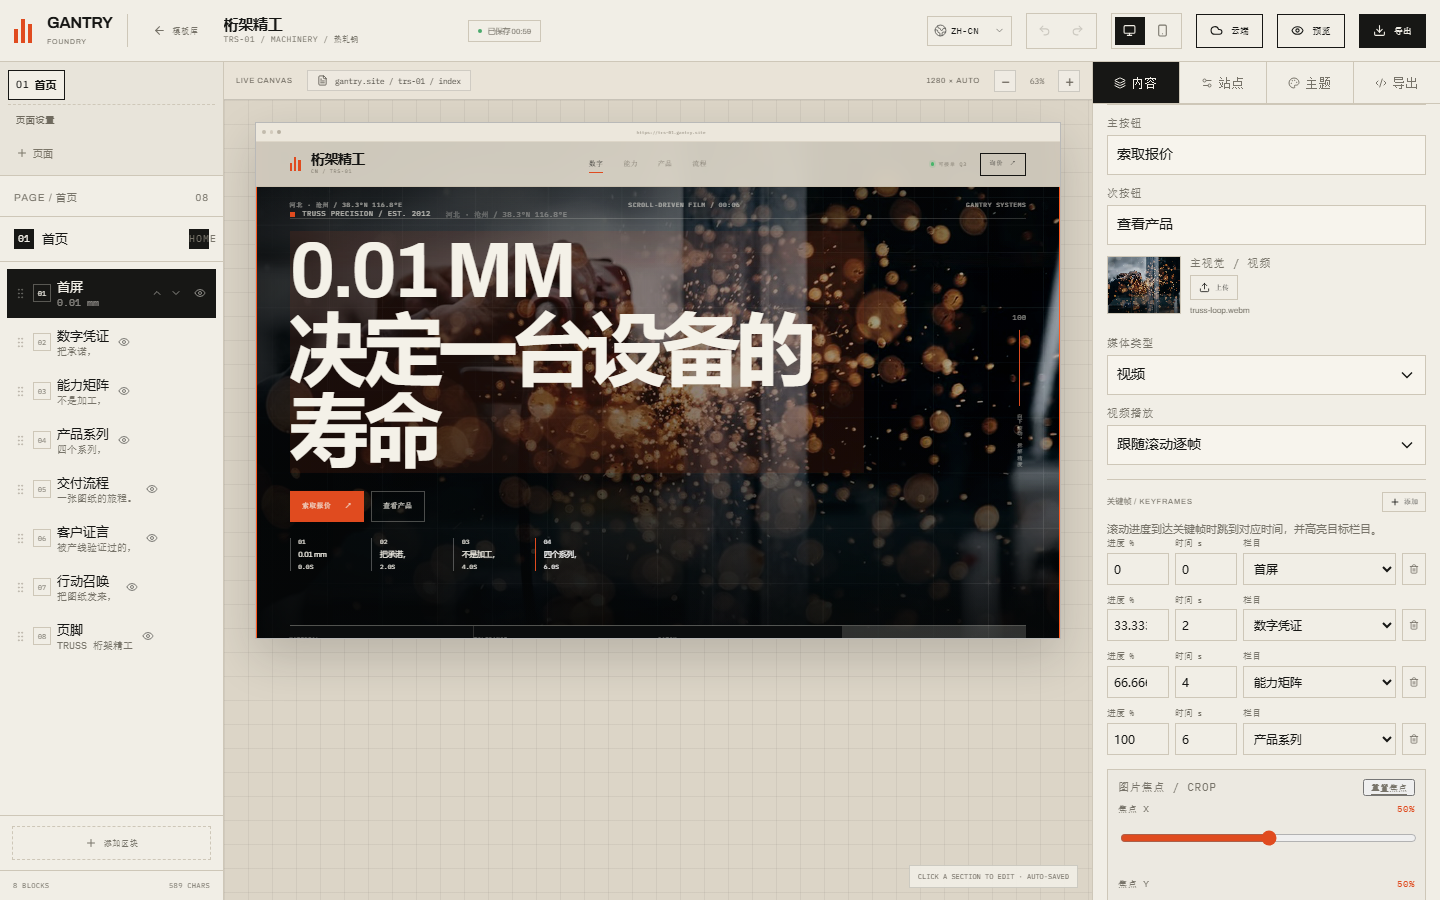
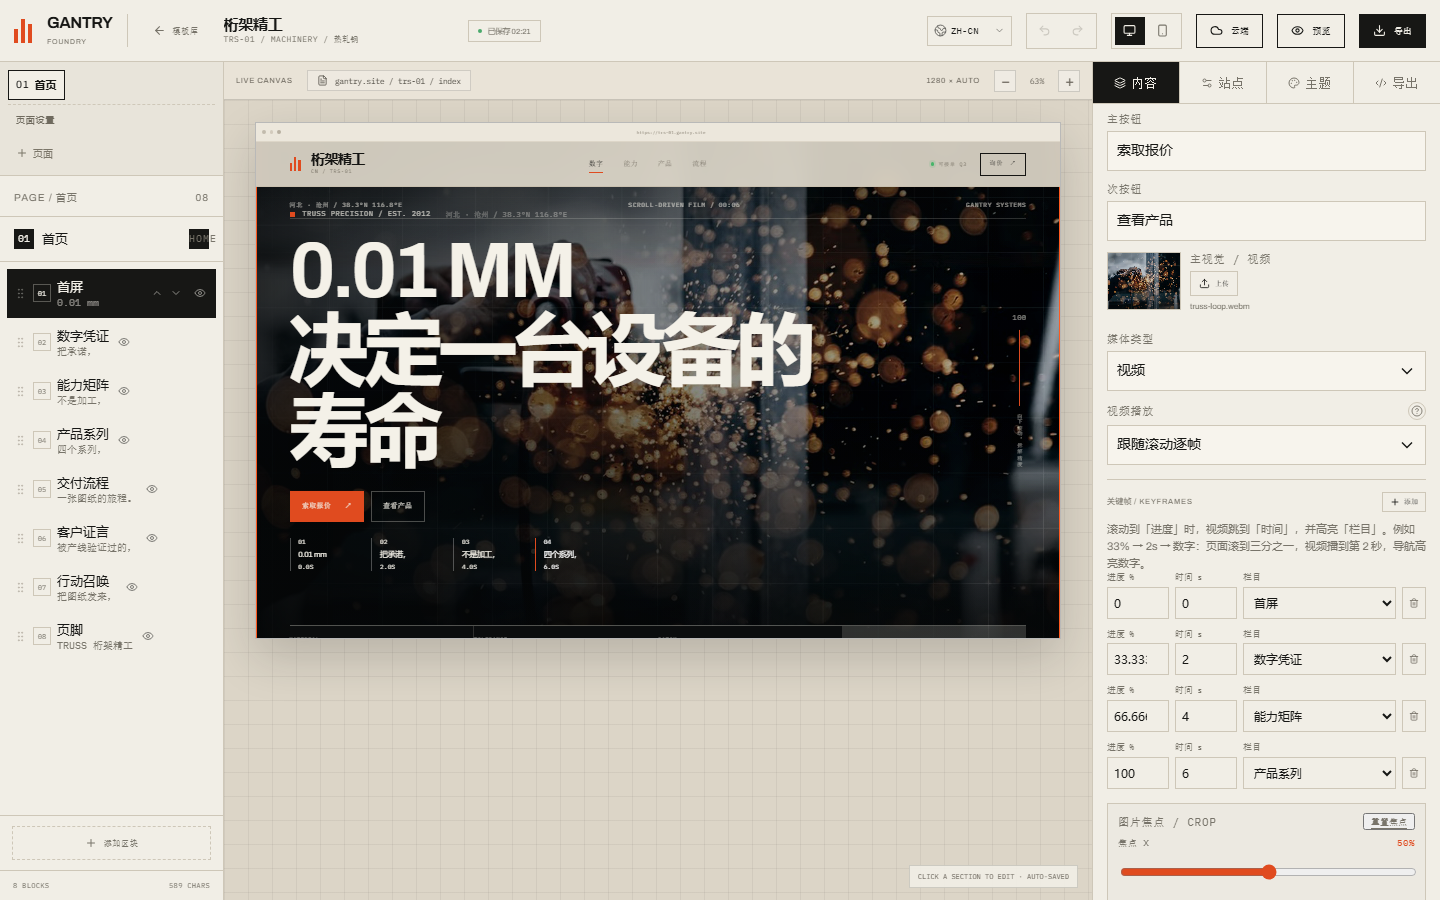
fix(编辑器): 修复长提示遮挡、首屏边距与滚动联动
字段提示改为挂载到 body 的固定浮层，按视口宽度夹取，避免被画布或检查器裁切。视频贯穿场景的首屏恢复 section gutter，标题不再贴左边缘。画布滚动时按 data-slot-id 计算当前区块，左侧区块列表同步选中，但不反向触发滚动。补充 3 条 E2E：编辑中撤销、滚动联动、提示浮层边界与首屏左边距。验证：tsc、146 单测、25 E2E、lint、build 通过。

Changed region(s): [[0.75, 0.56, 1.0, 0.9956], [0.75, 0.1244, 0.875, 0.4667], [0.9688, 0.4356, 1.0, 0.4667]]

diff --git a/frontend/e2e/site.spec.ts b/frontend/e2e/site.spec.ts
@@ -337,6 +337,33 @@ test.describe('builder', () => {
       .toBeGreaterThan(offset - 80);
   });
 
+  test('syncs the left rail when the canvas scrolls', async ({ page }) => {
+    await page.goto('/');
+    await openTemplate(page);
+
+    const scroller = page.locator('.device-screen .site-scroll');
+    const offset = await scroller.evaluate((node) => {
+      const target = node.querySelector('[data-slot-id="products"]');
+      return target instanceof HTMLElement ? target.offsetTop : 0;
+    });
+    await scroller.evaluate((node, top) => node.scrollTo({ top }), offset + 24);
+
+    await expect(page.locator('.rail-section').nth(3)).toHaveClass(/is-selected/);
+  });
+
+  test('shows field explanations in a viewport-safe tooltip', async ({ page }) => {
+    await page.goto('/');
+    await openTemplate(page);
+
+    await page.locator('.inspector .field-help').first().hover();
+    const tooltip = page.locator('.field-tooltip');
+    await expect(tooltip).toBeVisible();
+    const box = await tooltip.boundingBox();
+    expect(box).not.toBeNull();
+    expect(box!.x).toBeGreaterThanOrEqual(0);
+    expect(box!.x + box!.width).toBeLessThanOrEqual(1440);
+  });
+
   test('scrolls the canvas from a top navigation link', async ({ page }) => {
     await page.goto('/');
     await openTemplate(page);
@@ -352,8 +379,21 @@ test.describe('builder', () => {
     );
   });
 
-  test('keeps one film behind hero, numbers, capability and products', async ({ page }) => {
+  test('keeps the video-story hero copy inside the section gutter', async ({ page }) => {
     await page.goto('/');
+    await openTemplate(page, '铸造之夜');
+
+    const frame = page.locator('.device-screen').first();
+    const copy = page.locator('.device-screen .hero--story .hero-title');
+    await expect(copy).toBeVisible();
+    const frameBox = await frame.boundingBox();
+    const copyBox = await copy.boundingBox();
+    expect(frameBox).not.toBeNull();
+    expect(copyBox).not.toBeNull();
+    expect(copyBox!.x - frameBox!.x).toBeGreaterThan(18);
+  });
+
+  test('keeps one film behind hero, numbers, capability and products', async ({ page }) => {    await page.goto('/');
     await openTemplate(page, '铸造之夜');
 
     await expect(page.locator('.device-screen .video-scene')).toBeVisible();

diff --git a/frontend/src/components/ui/HelpTip.tsx b/frontend/src/components/ui/HelpTip.tsx
@@ -1,0 +1,59 @@
+import { useId, useRef, useState } from 'react';
+import { createPortal } from 'react-dom';
+import { CircleHelp } from 'lucide-react';
+
+type Position = { top: number; left: number; above: boolean };
+
+export function HelpTip({ text }: { text: string }) {
+  const anchor = useRef<HTMLSpanElement>(null);
+  const tooltipId = useId();
+  const [position, setPosition] = useState<Position | null>(null);
+
+  const show = () => {
+    const node = anchor.current;
+    if (!node) return;
+    const rect = node.getBoundingClientRect();
+    const width = Math.min(300, window.innerWidth - 32);
+    const left = Math.min(
+      Math.max(16, rect.left + rect.width / 2 - width / 2),
+      window.innerWidth - width - 16,
+    );
+    const above = rect.top > 170;
+    setPosition({
+      top: above ? rect.top - 8 : rect.bottom + 8,
+      left,
+      above,
+    });
+  };
+
+  return (
+    <>
+      <span
+        ref={anchor}
+        className="field-help"
+        tabIndex={0}
+        role="note"
+        aria-label={text}
+        aria-describedby={tooltipId}
+        onMouseEnter={show}
+        onMouseLeave={() => setPosition(null)}
+        onFocus={show}
+        onBlur={() => setPosition(null)}
+      >
+        <CircleHelp size={12} strokeWidth={1.8} aria-hidden="true" />
+      </span>
+      {position &&
+        createPortal(
+          <span
+            id={tooltipId}
+            role="tooltip"
+            className={`field-tooltip${position.above ? ' is-above' : ''}`}
+            style={{ top: position.top, left: position.left }}
+          >
+            {text}
+          </span>,
+          document.body,
+        )}
+    </>
+  );
+}

diff --git a/frontend/src/components/builder/Builder.tsx b/frontend/src/components/builder/Builder.tsx
@@ -281,6 +281,40 @@ function Canvas() {
     });
   }, [scrollRequest]);
 
+  useEffect(() => {
+    const scroller = document.querySelector<HTMLElement>(
+      '.device-screen .site-scroll',
+    );
+    if (!scroller) return;
+    let frame = 0;
+    const sync = () => {
+      frame = 0;
+      const slots = Array.from(
+        scroller.querySelectorAll<HTMLElement>('[data-slot-id]'),
+      );
+      if (!slots.length) return;
+      const line = scroller.scrollTop + 16;
+      let current = slots[0];
+      for (const slot of slots) {
+        if (slot.offsetTop <= line) current = slot;
+      }
+      const next = current.dataset.slotId;
+      if (next && next !== useBuilderStore.getState().selectedId) {
+        selectSection(next);
+      }
+    };
+    const onScroll = () => {
+      if (frame) return;
+      frame = window.requestAnimationFrame(sync);
+    };
+    sync();
+    scroller.addEventListener('scroll', onScroll, { passive: true });
+    return () => {
+      scroller.removeEventListener('scroll', onScroll);
+      if (frame) window.cancelAnimationFrame(frame);
+    };
+  }, [doc?.id, device, selectSection]);
+
   if (!doc) return null;
 
   return (

diff --git a/frontend/src/styles/shell.css b/frontend/src/styles/shell.css
@@ -3631,13 +3631,11 @@ html[dir='rtl'] .field-select {
   outline: none;
 }
 
-.field-help::after {
-  content: attr(data-tooltip);
-  position: absolute;
-  right: 0;
-  bottom: calc(100% + 8px);
-  z-index: 80;
-  width: 236px;
+.field-tooltip {
+  position: fixed;
+  z-index: 1000;
+  width: max-content;
+  max-width: min(300px, calc(100vw - 32px));
   padding: 10px 12px;
   border: 1px solid var(--shell-ink);
   background: var(--shell-ink);
@@ -3649,21 +3647,16 @@ html[dir='rtl'] .field-select {
   letter-spacing: 0;
   text-align: left;
   white-space: normal;
-  opacity: 0;
-  transform: translateY(4px);
   pointer-events: none;
-  transition: opacity 160ms ease, transform 160ms ease;
+  box-shadow: 0 10px 30px rgba(23, 23, 21, 0.22);
+  animation: field-tooltip-in 140ms ease both;
 }
 
-.field-help:hover::after,
-.field-help:focus-visible::after {
-  opacity: 1;
-  transform: translateY(0);
+.field-tooltip.is-above {
+  transform: translateY(-100%);
 }
 
-@media (max-width: 760px) {
-  .field-help::after {
-    right: -8px;
-    width: min(220px, 70vw);
-  }
+@keyframes field-tooltip-in {
+  from { opacity: 0; }
+  to { opacity: 1; }
 }

diff --git a/frontend/src/components/builder/Inspector.tsx b/frontend/src/components/builder/Inspector.tsx
@@ -10,7 +10,6 @@ import {
   type ReactNode,
 } from 'react';
 import {
-  CircleHelp,
   Code2,
   Copy,
   Download,
@@ -27,6 +26,7 @@ import {
 import { useTranslation } from 'react-i18next';
 import { useBuilderStore } from '../../store/builder';
 import { useProjectStore } from '../../store/project';
+import { HelpTip } from '../ui/HelpTip';
 import { LOCALES } from '../../i18n/locales';
 import {
   SECTION_LABELS,
@@ -200,18 +200,7 @@ function SelectField<T extends string>({
     <label className="field">
       <span className="field-label">
         {label}
-        {hint && (
-          <span
-            className="field-help"
-            tabIndex={0}
-            role="note"
-            aria-label={hint}
-            data-tooltip={hint}
-            title={hint}
-          >
-            <CircleHelp size={12} strokeWidth={1.8} aria-hidden="true" />
-          </span>
-        )}
+        {hint && <HelpTip text={hint} />}
       </span>
       <select
         value={value}

diff --git a/frontend/src/styles/site.css b/frontend/src/styles/site.css
@@ -2890,7 +2890,7 @@
   min-height: 100cqh;
   display: flex;
   align-items: flex-end;
-  padding: calc(var(--nav-h) + 48px) 0 96px;
+  padding: calc(var(--nav-h) + 48px) var(--gutter) 96px;
 }
 .video-scene .hero--story .hero-inner { width: 100%; }
 .video-scene .hero--story .hero-copy { max-width: 820px; }

diff --git a/docs/ACCEPTANCE.md b/docs/ACCEPTANCE.md
@@ -12,7 +12,7 @@
 - 桌面/手机双视图、滚动视频、3–4 图拼贴、组件级样式、图片焦点/独立裁剪均可用。
 - 七语言 UI（zh-CN / en / ar / tr / he / fa / ur）与 RTL；生成站点可设置 locale，导出写入 lang/dir。
 - 登录、云端项目、多页编辑、PC → 手机接力、单页 HTML / 整站 ZIP 导出已打通。
-- 前端 146 个单元测试、22 条 Playwright E2E；后端 4 条 Spring Boot 集成测试；类型检查、Lint、生产构建全部通过。
+- 前端 146 个单元测试、25 条 Playwright E2E；后端 4 条 Spring Boot 集成测试；类型检查、Lint、生产构建全部通过。
 
 尚未完成：真实源码（React/Java）生成、在线支付、手机端编辑工作台。JSON 项目源文件当前是页面文档，不是生成出来的工程源码。
 
@@ -45,15 +45,15 @@ npx tsc --noEmit          # 通过
 npx vitest run            # 23 files, 146 tests passed
 npx playwright test       # 9 passed (35.6s)
 npm run lint              # 0 error, 0 warning
-npm run build             # 1663 modules
+npm run build             # 1665 modules
 ```
 
 前端构建体积：
 
 - 首屏 `index` 477.72 kB / gzip 159.41 kB
-- 按需 `Builder` 363.37 kB / gzip 106.19 kB，`Gallery` 15.67 kB / gzip 4.78 kB
+- 按需 `Builder` 364.54 kB / gzip 106.69 kB，`Gallery` 15.67 kB / gzip 4.78 kB
 - `ImageCropper` 3.27 kB / gzip 1.42 kB
-- CSS 103.03 kB / gzip 19.17 kB
+- CSS 102.95 kB / gzip 19.16 kB
 
 后端：
 
@@ -80,6 +80,7 @@ mvn -B test               # 4 tests, 0 failures, BUILD SUCCESS
 - `screenshots/builder-site-nav.png`：站点导航编辑器、页面目标选择、字号与 select 样式
 - `screenshots/builder-cta-target.png`：询价按钮目标改为页面
 - `screenshots/builder-keyframes.png`、`builder-keyframe-active.png`：关键帧编辑与章节高亮
+- `screenshots/builder-video-story.png`：视频贯穿首屏与数字/能力/产品章节
 - `screenshots/builder-inline-sync.png`：画布标题编辑与右侧检查器实时同步
 - `screenshots/builder-tooltip.png`：字段悬浮解释（媒体类型/播放方式/关键帧操作）
 - `screenshots/footer-check.png`：页脚与其它区块共用 section gutter

diff --git a/README.md b/README.md
@@ -23,13 +23,13 @@ gantry-studio/
 - 桌面/手机双视图，HTML 单文件、整站 ZIP、JSON 项目源文件导出。
 - 登录后项目保存到云端；同一个账号在 PC 和手机打开的是同一份多页草稿。
 - 页面即导航：新增页面会自动进入所有页面的导航；可在「站点」面板改链接文字与目标，画布内点击直接切页，整站 ZIP 内链接也指向对应页面。
-- 中间画布与右侧检查器实时双向同步：点击标题、正文、能力项、产品卡、流程、证言、CTA 或页脚文字直接改；一次编辑只占一个撤销步骤。
-- 编辑中直接点撤销也会同时回滚画布，不依赖失焦；区块布局、表面、遮罩、动效、视频播放与关键帧字段均有悬浮解释。
+- 中间画布与右侧检查器实时双向同步：点击标题、正文、能力项、产品卡、流程、证言、CTA 或页脚文字直接改；一次编辑只占一个撤销步骤；滚动画布时左侧区块列表自动跟随。
+- 编辑中直接点撤销也会同时回滚画布，不依赖失焦；区块布局、表面、遮罩、动效、视频播放与关键帧字段均有悬浮解释。tooltip 使用挂载到 body 的浮层，不会被画布或检查器裁切。
 - 询价按钮目标可配置：默认 CTA 区块，也可选择某个页面或外部 URL；编辑态只选中目标，预览/导出才真正跳转。
 - 生成与导出要求登录；JSON 项目源文件带 Pro 权益接缝。
 - 七语言界面：简体中文、English、العربية、Türkçe、עברית、فارسی、اردو；阿拉伯语/希伯来语/波斯语/乌尔都语自动 RTL。
 - 生成站点可单独设置语言，导出 HTML 写入对应 `lang` 与 `dir`。
-- 前端 146 个 Vitest 单测、22 条 Playwright E2E；后端 4 条 Spring Boot 集成测试。
+- 前端 146 个 Vitest 单测、25 条 Playwright E2E；后端 4 条 Spring Boot 集成测试。
 
 ## 本地运行
 

diff --git a/frontend/README.md b/frontend/README.md
@@ -118,8 +118,8 @@ scripts/         截图脚本
 
 - `npx tsc --noEmit` 通过。
 - `npx vitest run`：23 个测试文件，146 个测试通过。
-- `npx playwright test`：22 条用例通过（715 套模板分页、市场/行业/风格筛选、手机无横向溢出、登录闸门、编辑/主题/设备/预览/导出、滚动视频、独立裁剪、页面导航切页、画布编辑、CTA、语言菜单、30 套精选 smoke、云端多页往返）。
-- `npm run build` 通过（1663 模块；首屏 `index` 477.72 kB / gzip 159.41 kB；按需 `Builder` 363.37 kB / `Gallery` 15.67 kB；CSS 103.03 kB / gzip 19.17 kB）。
+- `npx playwright test`：25 条用例通过（715 套模板分页、市场/行业/风格筛选、手机无横向溢出、登录闸门、编辑/主题/设备/预览/导出、滚动视频、独立裁剪、页面导航切页、画布编辑、CTA、语言菜单、30 套精选 smoke、云端多页往返）。
+- `npm run build` 通过（1665 模块；首屏 `index` 477.72 kB / gzip 159.41 kB；按需 `Builder` 364.54 kB / `Gallery` 15.67 kB；CSS 102.95 kB / gzip 19.16 kB）。
 - `npm run lint` 0 error / 0 warning。
 - 导出 HTML 已在 Playwright 里用 `file://` 实际打开，标题与 8 个区块均存在。
 - 云端流程已用 Playwright 注册账号、创建两页、保存、从云端重开并验证页面标题。

diff --git a/docs/WORKFLOW.md b/docs/WORKFLOW.md
@@ -28,7 +28,7 @@
 
 - 715 套模板：13 个行业 × 11 种风格 × 每组合 5 套；30 套手工 + 685 套工厂生成。
 - 页面区块：8 类；编辑器支持就地改字、上下移动、显隐、复制、删除、撤销/重做、桌面/手机视图、主题切换、组件级样式、图片焦点/独立裁剪、多页、云端保存、HTML/ZIP/JSON 导出。
-- 质量：146 个 Vitest 测试、22 条 Playwright 用例、4 条后端 Spring Boot 测试、`tsc`、`lint`、`build` 全通过。
+- 质量：146 个 Vitest 测试、25 条 Playwright 用例、4 条后端 Spring Boot 测试、`tsc`、`lint`、`build` 全通过。
 - 已知边界：生成物是静态 HTML/ZIP，不是可二次开发的 React 工程源码；云端保存是显式按钮；支付与真实源码生成未接；手机端只用于查看/预览。
 
 ## 2. v2 范围
@@ -624,7 +624,7 @@ export interface PaymentProvider {
 
 **Task 0.1 记录基线**
 - 文件：`docs/ADR/0001-baseline.md`
-- 内容：当前 715 套模板、146 单测、22 E2E、构建体积、已知边界。
+- 内容：当前 715 套模板、146 单测、25 E2E、构建体积、已知边界。
 - 命令：`npx tsc --noEmit && npx vitest run && npx playwright test && npm run build`。
 - 验收：四项输出贴进 ADR；后续任何回归可对比。
 
